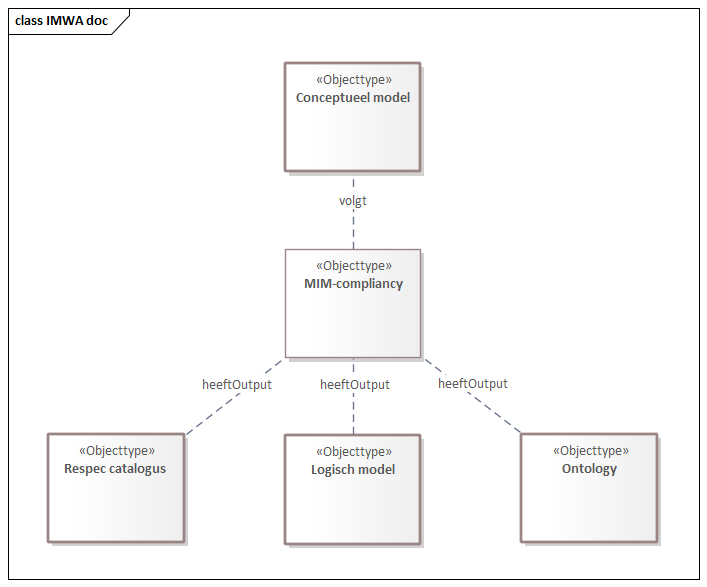
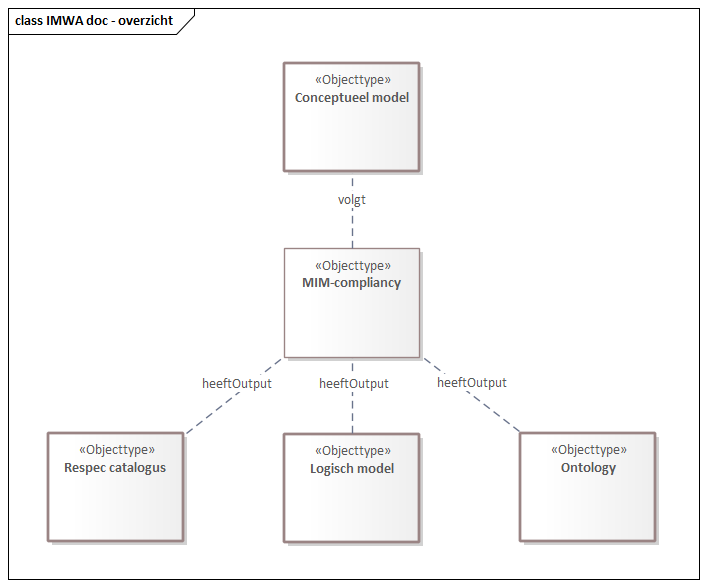
CONCEPTUAL-IMWAdocumentatie-1.0-1-20250414-20250416-160258

diff --git a/data/Aquo-doc-cat.respec.full.html b/data/Aquo-doc-cat.respec.full.html
@@ -17,7 +17,9 @@
                             Status van dit document ...HIER INVOEGEN
                         </p></section><section id="prologue" class="informative" level="1"><h1>Proloog</h1><p>
                             Introductie ...HIER INVOEGEN
-                        </p></section><section id="cat" class="normative"><h2>Gegevensdefinitie</h2><p><b>Deze tekst is normatief.</b><!--CONCEPTUAL-IMWAdocumentatie-1.0-1-20250414-20250415-120807 imvertor 4.4.0--></p><section><h3>Objecttypen   </h3>
+                        </p></section><section id="cat" class="normative"><h2>Gegevensdefinitie</h2><p><b>Deze tekst is normatief.</b><!--CONCEPTUAL-IMWAdocumentatie-1.0-1-20250414-20250416-160258 imvertor 4.4.0--></p><div class="imageinfo overview"><img id="EAID_82AC4A81_0971_4fbb_9EAB_DD682B5D260C" src="data/Images/EAID_82AC4A81_0971_4fbb_9EAB_DD682B5D260C.png" usemap="#imagemap-EAID_82AC4A81_0971_4fbb_9EAB_DD682B5D260C" alt="Diagram: IMWA doc - overzicht"><map name="imagemap-EAID_82AC4A81_0971_4fbb_9EAB_DD682B5D260C"><area shape="rect" alt="Ontology" coords="520,433,656,542" href="#global_class_IMWADoc_Ontology"><area shape="rect" alt="MIM-compliancy" coords="284,248,420,358" href="#global_class_IMWADoc_MIMCompliancy"><area shape="rect" alt="Respec catalogus" coords="48,433,184,542" href="#global_class_IMWADoc_RespecCatalogus"><area shape="rect" alt="Logisch model" coords="284,434,420,543" href="#global_class_IMWADoc_LogischModel"><area shape="rect" alt="Conceptueel model" coords="284,63,420,172" href="#global_class_IMWADoc_ConceptueelModel"></map><p><b>IMWA doc - overzicht</b>
+                        <p></p>
+                     </p></div><section><h3>Objecttypen   </h3>
             <section id="global_class_IMWADoc_ConceptueelModel"><h4>   Conceptueel model</h4>
                <table style="width: 100%;"><colgroup style="width: 30%;"></colgroup><colgroup style="width: 70%;"></colgroup><tbody><tr><th>Naam</th><td>Conceptueel model</td></tr><tr><th>Indicatie abstract object</th><td>Nee</td></tr></tbody></table>
                <h5>Overzicht relaties  </h5>

diff --git a/data/Aquo-doc-cat.respec.html b/data/Aquo-doc-cat.respec.html
@@ -1,4 +1,6 @@
-<!DOCTYPE HTML><section id="cat" class="normative"><h2>Gegevensdefinitie</h2><p><b>Deze tekst is normatief.</b><!--CONCEPTUAL-IMWAdocumentatie-1.0-1-20250414-20250415-120807 imvertor 4.4.0--></p><section><h3>Objecttypen   </h3>
+<!DOCTYPE HTML><section id="cat" class="normative"><h2>Gegevensdefinitie</h2><p><b>Deze tekst is normatief.</b><!--CONCEPTUAL-IMWAdocumentatie-1.0-1-20250414-20250416-160258 imvertor 4.4.0--></p><div class="imageinfo overview"><img id="EAID_82AC4A81_0971_4fbb_9EAB_DD682B5D260C" src="data/Images/EAID_82AC4A81_0971_4fbb_9EAB_DD682B5D260C.png" usemap="#imagemap-EAID_82AC4A81_0971_4fbb_9EAB_DD682B5D260C" alt="Diagram: IMWA doc - overzicht"><map name="imagemap-EAID_82AC4A81_0971_4fbb_9EAB_DD682B5D260C"><area shape="rect" alt="Ontology" coords="520,433,656,542" href="#global_class_IMWADoc_Ontology"><area shape="rect" alt="MIM-compliancy" coords="284,248,420,358" href="#global_class_IMWADoc_MIMCompliancy"><area shape="rect" alt="Respec catalogus" coords="48,433,184,542" href="#global_class_IMWADoc_RespecCatalogus"><area shape="rect" alt="Logisch model" coords="284,434,420,543" href="#global_class_IMWADoc_LogischModel"><area shape="rect" alt="Conceptueel model" coords="284,63,420,172" href="#global_class_IMWADoc_ConceptueelModel"></map><p><b>IMWA doc - overzicht</b>
+                        <p></p>
+                     </p></div><section><h3>Objecttypen   </h3>
             <section id="global_class_IMWADoc_ConceptueelModel"><h4>   Conceptueel model</h4>
                <table style="width: 100%;"><colgroup style="width: 30%;"></colgroup><colgroup style="width: 70%;"></colgroup><tbody><tr><th>Naam</th><td>Conceptueel model</td></tr><tr><th>Indicatie abstract object</th><td>Nee</td></tr></tbody></table>
                <h5>Overzicht relaties  </h5>
